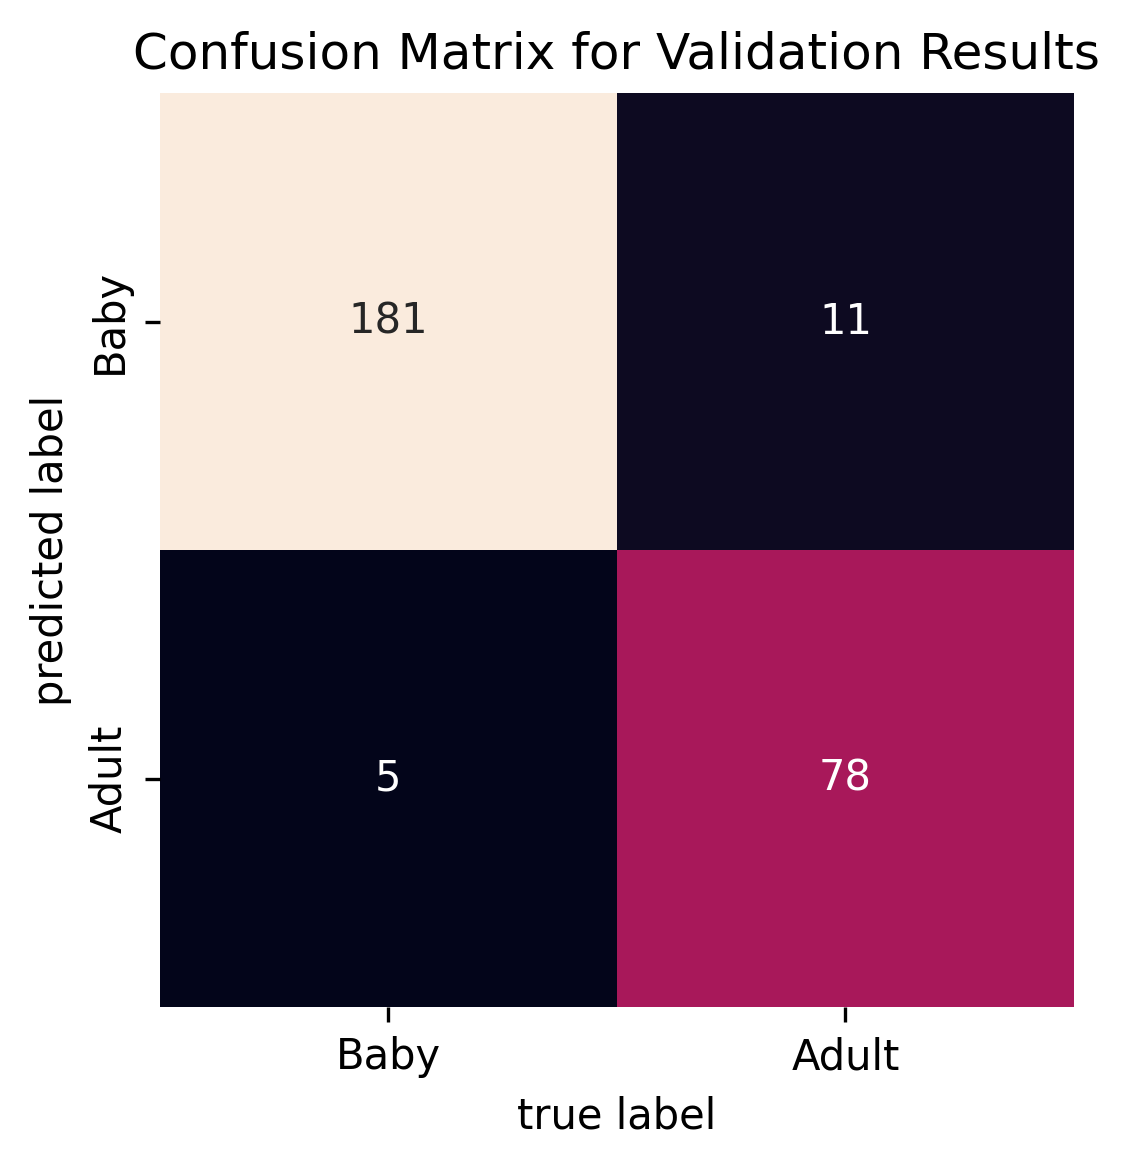
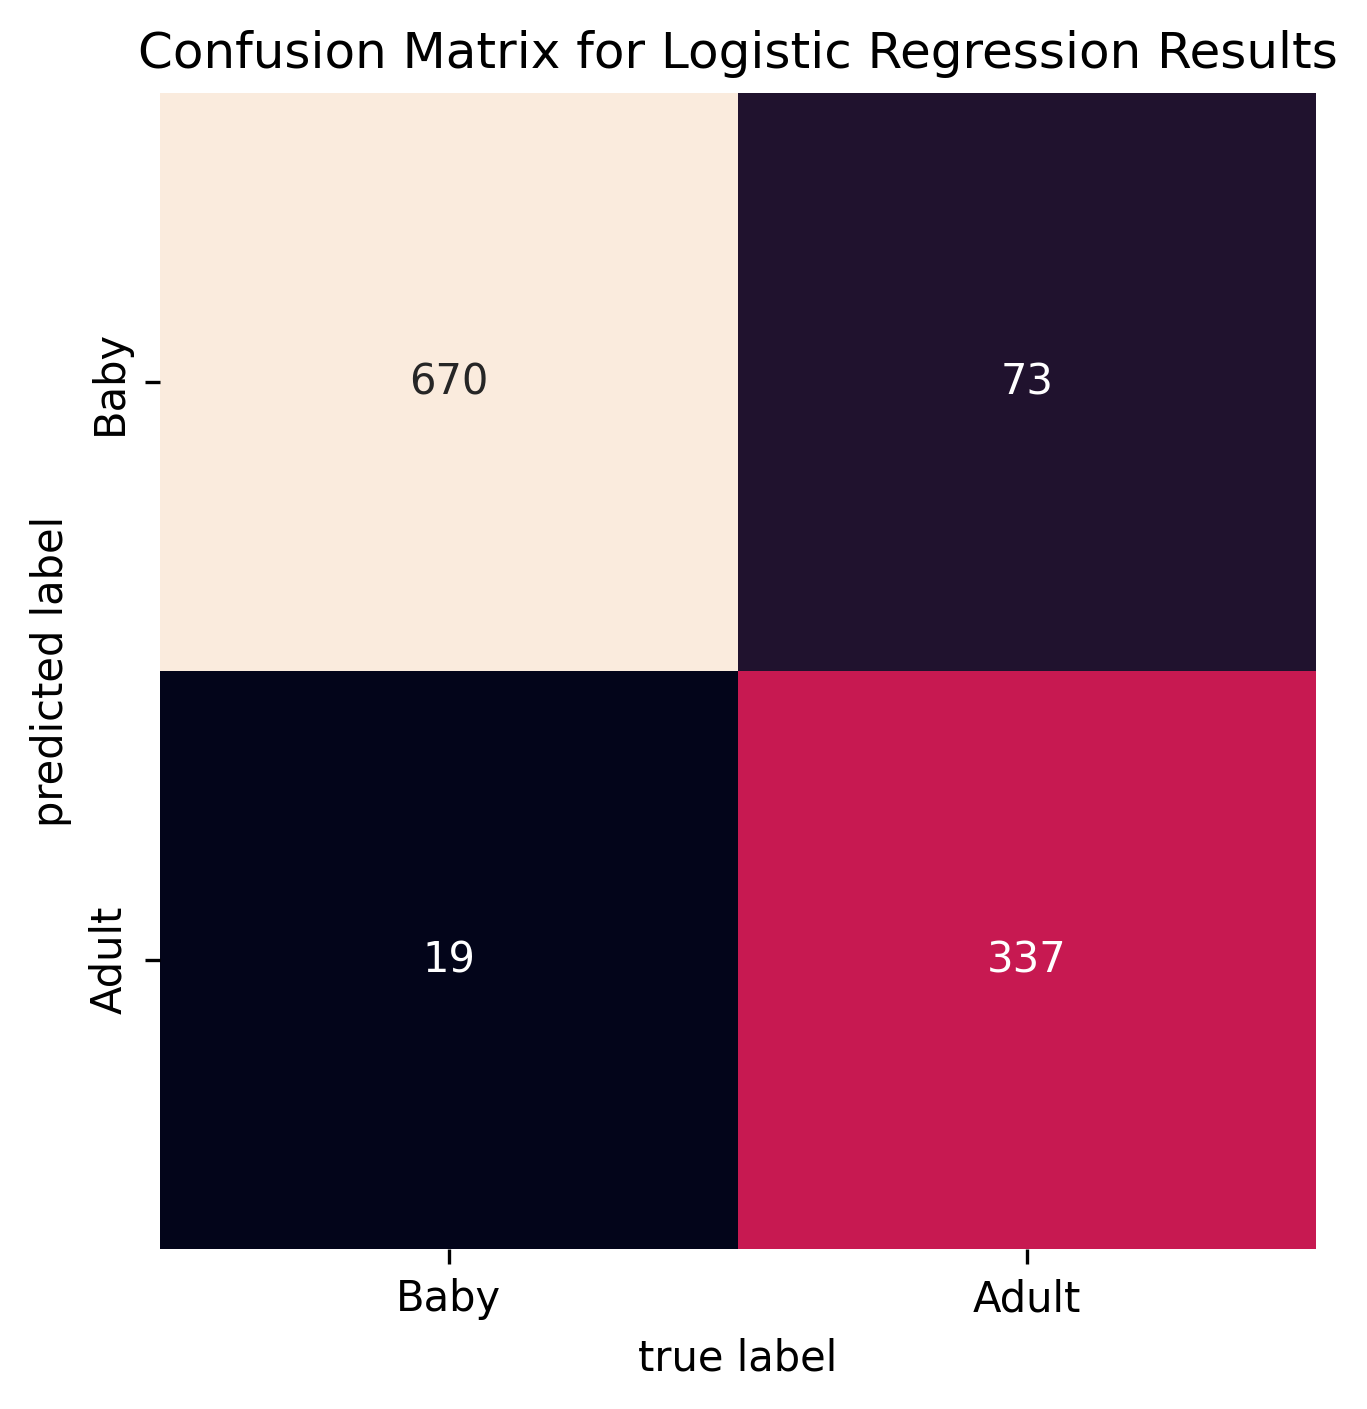
updated markdown and images to match results in slides

diff --git a/src/jh_logreg_4_pred.py b/src/jh_logreg_4_pred.py
@@ -51,6 +51,7 @@ def eg_logreg(df, pred, target, poly=False):
     X_train, X_test, y_train, y_test = train_test_split(
         X,
         y,
+        random_state=42,
     )
 
     # fit logreg
@@ -95,7 +96,7 @@ def eg_logreg(df, pred, target, poly=False):
     # fit uniform dummy, to compare
     # NOTE: we don't really need to use train/test
     #       unless we use 'stratified' strategy
-    dummy = DummyClassifier(strategy='stratified')
+    dummy = DummyClassifier(strategy='stratified', random_state=42)
     dummy.fit(X_train, y_train)
     dummy_y_hat = dummy.predict(X_test)
     dummy_score = accuracy_score(y_test, dummy_y_hat)
@@ -133,25 +134,29 @@ for pp in [
         save_fig=save_fig
     )
 
-    target_names = ['Baby', 'Adult']
-    mat = confusion_matrix(y_test, y_hat)
-    sns.heatmap(
-        mat.T,
-        square=True,
-        annot=True,
-        fmt='d',
-        cbar=False,
-        xticklabels=target_names,
-        yticklabels=target_names,
-    )
-    plt.xlabel('true label')
-    plt.ylabel('predicted label')
-    plt.title('Confusion Matrix for Validation Results')
-    plt.tight_layout()
-    if save_fig:
-        plt.savefig(
-            'figs/logreg_4_pred_conf_mat.png',
-            dpi=300,
-            bbox_inches='tight',
+    def conf_mat(desc, y, y_hat):
+        target_names = ['Baby', 'Adult']
+        mat = confusion_matrix(y, y_hat)
+        sns.heatmap(
+            mat.T,
+            square=True,
+            annot=True,
+            fmt='d',
+            cbar=False,
+            xticklabels=target_names,
+            yticklabels=target_names,
         )
-    plt.show()
+        plt.xlabel('true label')
+        plt.ylabel('predicted label')
+        plt.title(f'Confusion Matrix for {desc} Results')
+        plt.tight_layout()
+        if save_fig:
+            plt.savefig(
+                f'figs/logreg_4_pred_conf_mat_{desc}.png',
+                dpi=300,
+                bbox_inches='tight',
+            )
+        plt.show()
+
+    conf_mat('Validation', y_test, y_hat)
+    conf_mat('Logistic Regression', df[target], model.predict(df[pp]))

diff --git a/src/jh_plot_norm.py b/src/jh_plot_norm.py
@@ -13,7 +13,7 @@ import numpy as np
 
 # internal
 from util import meta_cache
-from util.pre import rotate
+from util.pre import rotate, to_deg
 from util.plot import plot_image
 from util.column_names import x_cols_norm_cenrot, y_cols_norm_cenrot
 
@@ -51,17 +51,20 @@ for i, image_name in enumerate([
         cross=False,
         ax=ax1,
     )
-    ax1.title.set_text(image_name)
+    ax1.title.set_text(image_name + ' \n raw image data')
     
     rotated = rotate(anno)
     plot_image(
         rotated,
         annotate='spline',
         cross=True,
-        grayscale=True,
+        grayscale='bone',
         ax=ax2,
     )
-    ax2.title.set_text('rotated and centered')
+    yaw = df.iloc[row_id]['yaw'] * to_deg
+    ax2.title.set_text(
+        f'rotated and centered \n estimated yaw: {yaw:.2f}' + '$^{\circ}$'
+    )
     
     # plot geometry without image, to verify coords
     # NOTE: this is a hack to plot normalized coords
@@ -75,7 +78,6 @@ for i, image_name in enumerate([
     plot_image(
         rotated,
         annotate='splinenum',
-        grayscale=True,
         skip_img=True,
         ax=ax3,
     )

diff --git a/src/util/plot.py b/src/util/plot.py
@@ -104,10 +104,16 @@ def plot_image(
     X = anno.get_x()
     Y = anno.get_y()
     if grayscale:
+        if isinstance(grayscale, str):
+            cmap = grayscale
+        else:
+            cmap = 'viridis'
         # NOTE: Extracting luma component produces the same result
         #       as ImageOps.grayscale.
         # y,u,v = img.convert('YCbCr').split()
         img = ImageOps.grayscale(img)
+    else:
+        cmap = None
     
     # get the image data
     # img.convert('YCbCr')
@@ -118,7 +124,7 @@ def plot_image(
     else:
         own_axes = False
     if img is not None and not skip_img:
-        ax.imshow(img)
+        ax.imshow(img, cmap=cmap)
         if cross:
             center = np.array([img.width/2, img.height/2])
             ax.axhline(y=center[1])

diff --git a/logreg.md b/logreg.md
@@ -14,26 +14,26 @@ Classification Report
 =====================================================
               precision    recall  f1-score   support
 
-        baby       0.90      0.96      0.93       170
-       adult       0.94      0.83      0.88       105
+        baby       0.88      0.98      0.93       171
+       adult       0.95      0.78      0.86       104
 
-    accuracy                           0.91       275
-   macro avg       0.92      0.90      0.91       275
-weighted avg       0.91      0.91      0.91       275
+    accuracy                           0.90       275
+   macro avg       0.92      0.88      0.89       275
+weighted avg       0.91      0.90      0.90       275
 
-	logreg score: 0.913
+	logreg score: 0.902
 	coefficients:
-		boxratio: 9.836838008155665
-		yaw_abs: 3.2714741040479107
-		interoc_norm: 1.4026847522362897
-		roll_abs: 0.7687748782704812
-	dummy score: 0.484
+		boxratio: 9.8119488337129
+		yaw_abs: 3.2660933501186977
+		interoc_norm: 1.661054837464261
+		roll_abs: 0.8029014375354707
+	dummy score: 0.549
 ```
 
 We plotted these results on a scatter of 'boxratio' vs 'yaw_abs' and a confusion matrix of the (small) validation set:
 
-<img src="figs/scatter_boxratio_vs_yaw.png" width=600>
-<img src="figs/logreg_4_pred_conf_mat.png" width=600>
+<img src="figs/scatter_boxratio vs yaw_abs.png" width=600>
+<img src="figs/logreg_4_pred_conf_mat_Logistic Regression.png" width=600>
 
 This is a rough first test using small random validation set, but it indicates that 'boxratio' is likely useful. We imagine 'yaw_abs' is _circumstantially_ useful, since babies are generally photographed from more extreme angles, if only because they have a hard time supporting their relatively large heads.
 

diff --git a/preprocessing.md b/preprocessing.md
@@ -95,6 +95,7 @@ The calculation for yaw is a simple weighted average of angles between key landm
 
 The calculation for "roll" is much more tenuous. We assume the head is a sphere, with diameter equal to the maximum horizontal distance between cheek landmarks (after "yaw correction"). Then we take the nose point (landmark 33) as a point on the surface of said sphere and calculate the angle: `roll = arcsin((nose-mid)/radius)`
 
+<img src="figs/roll_analysis.png" width=600>
 
 ## Visualizing estimates
 
